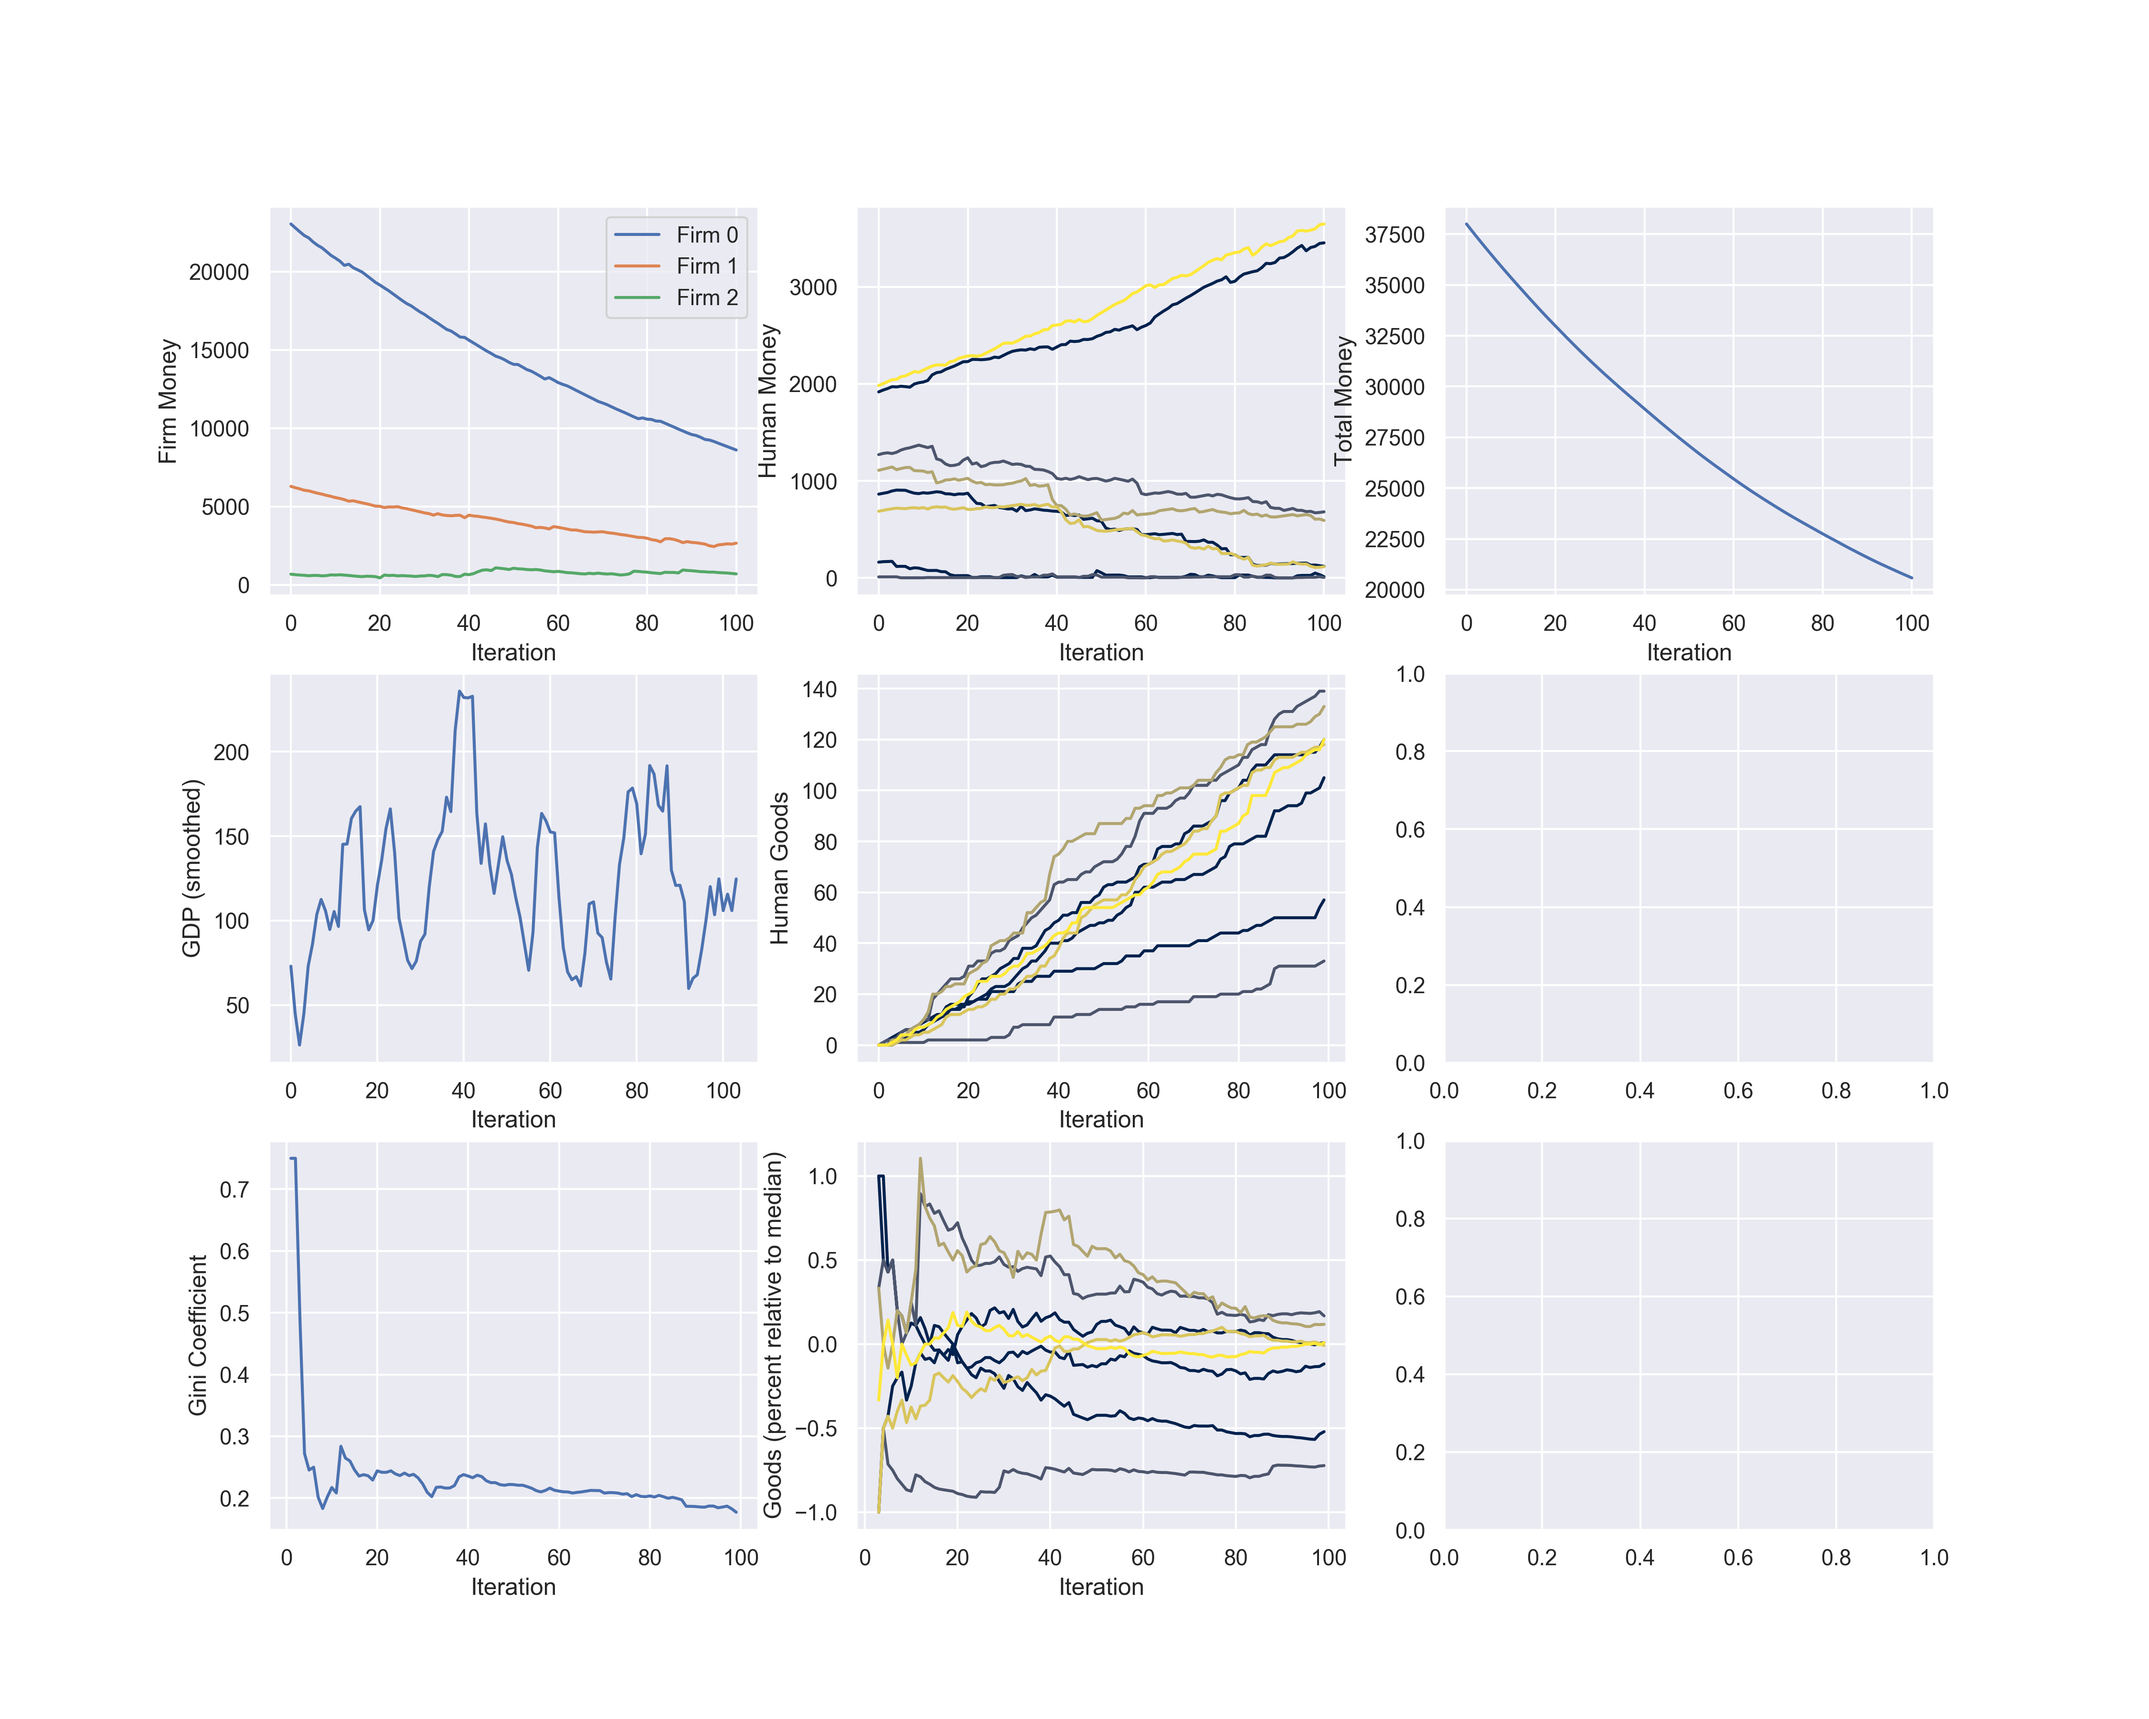
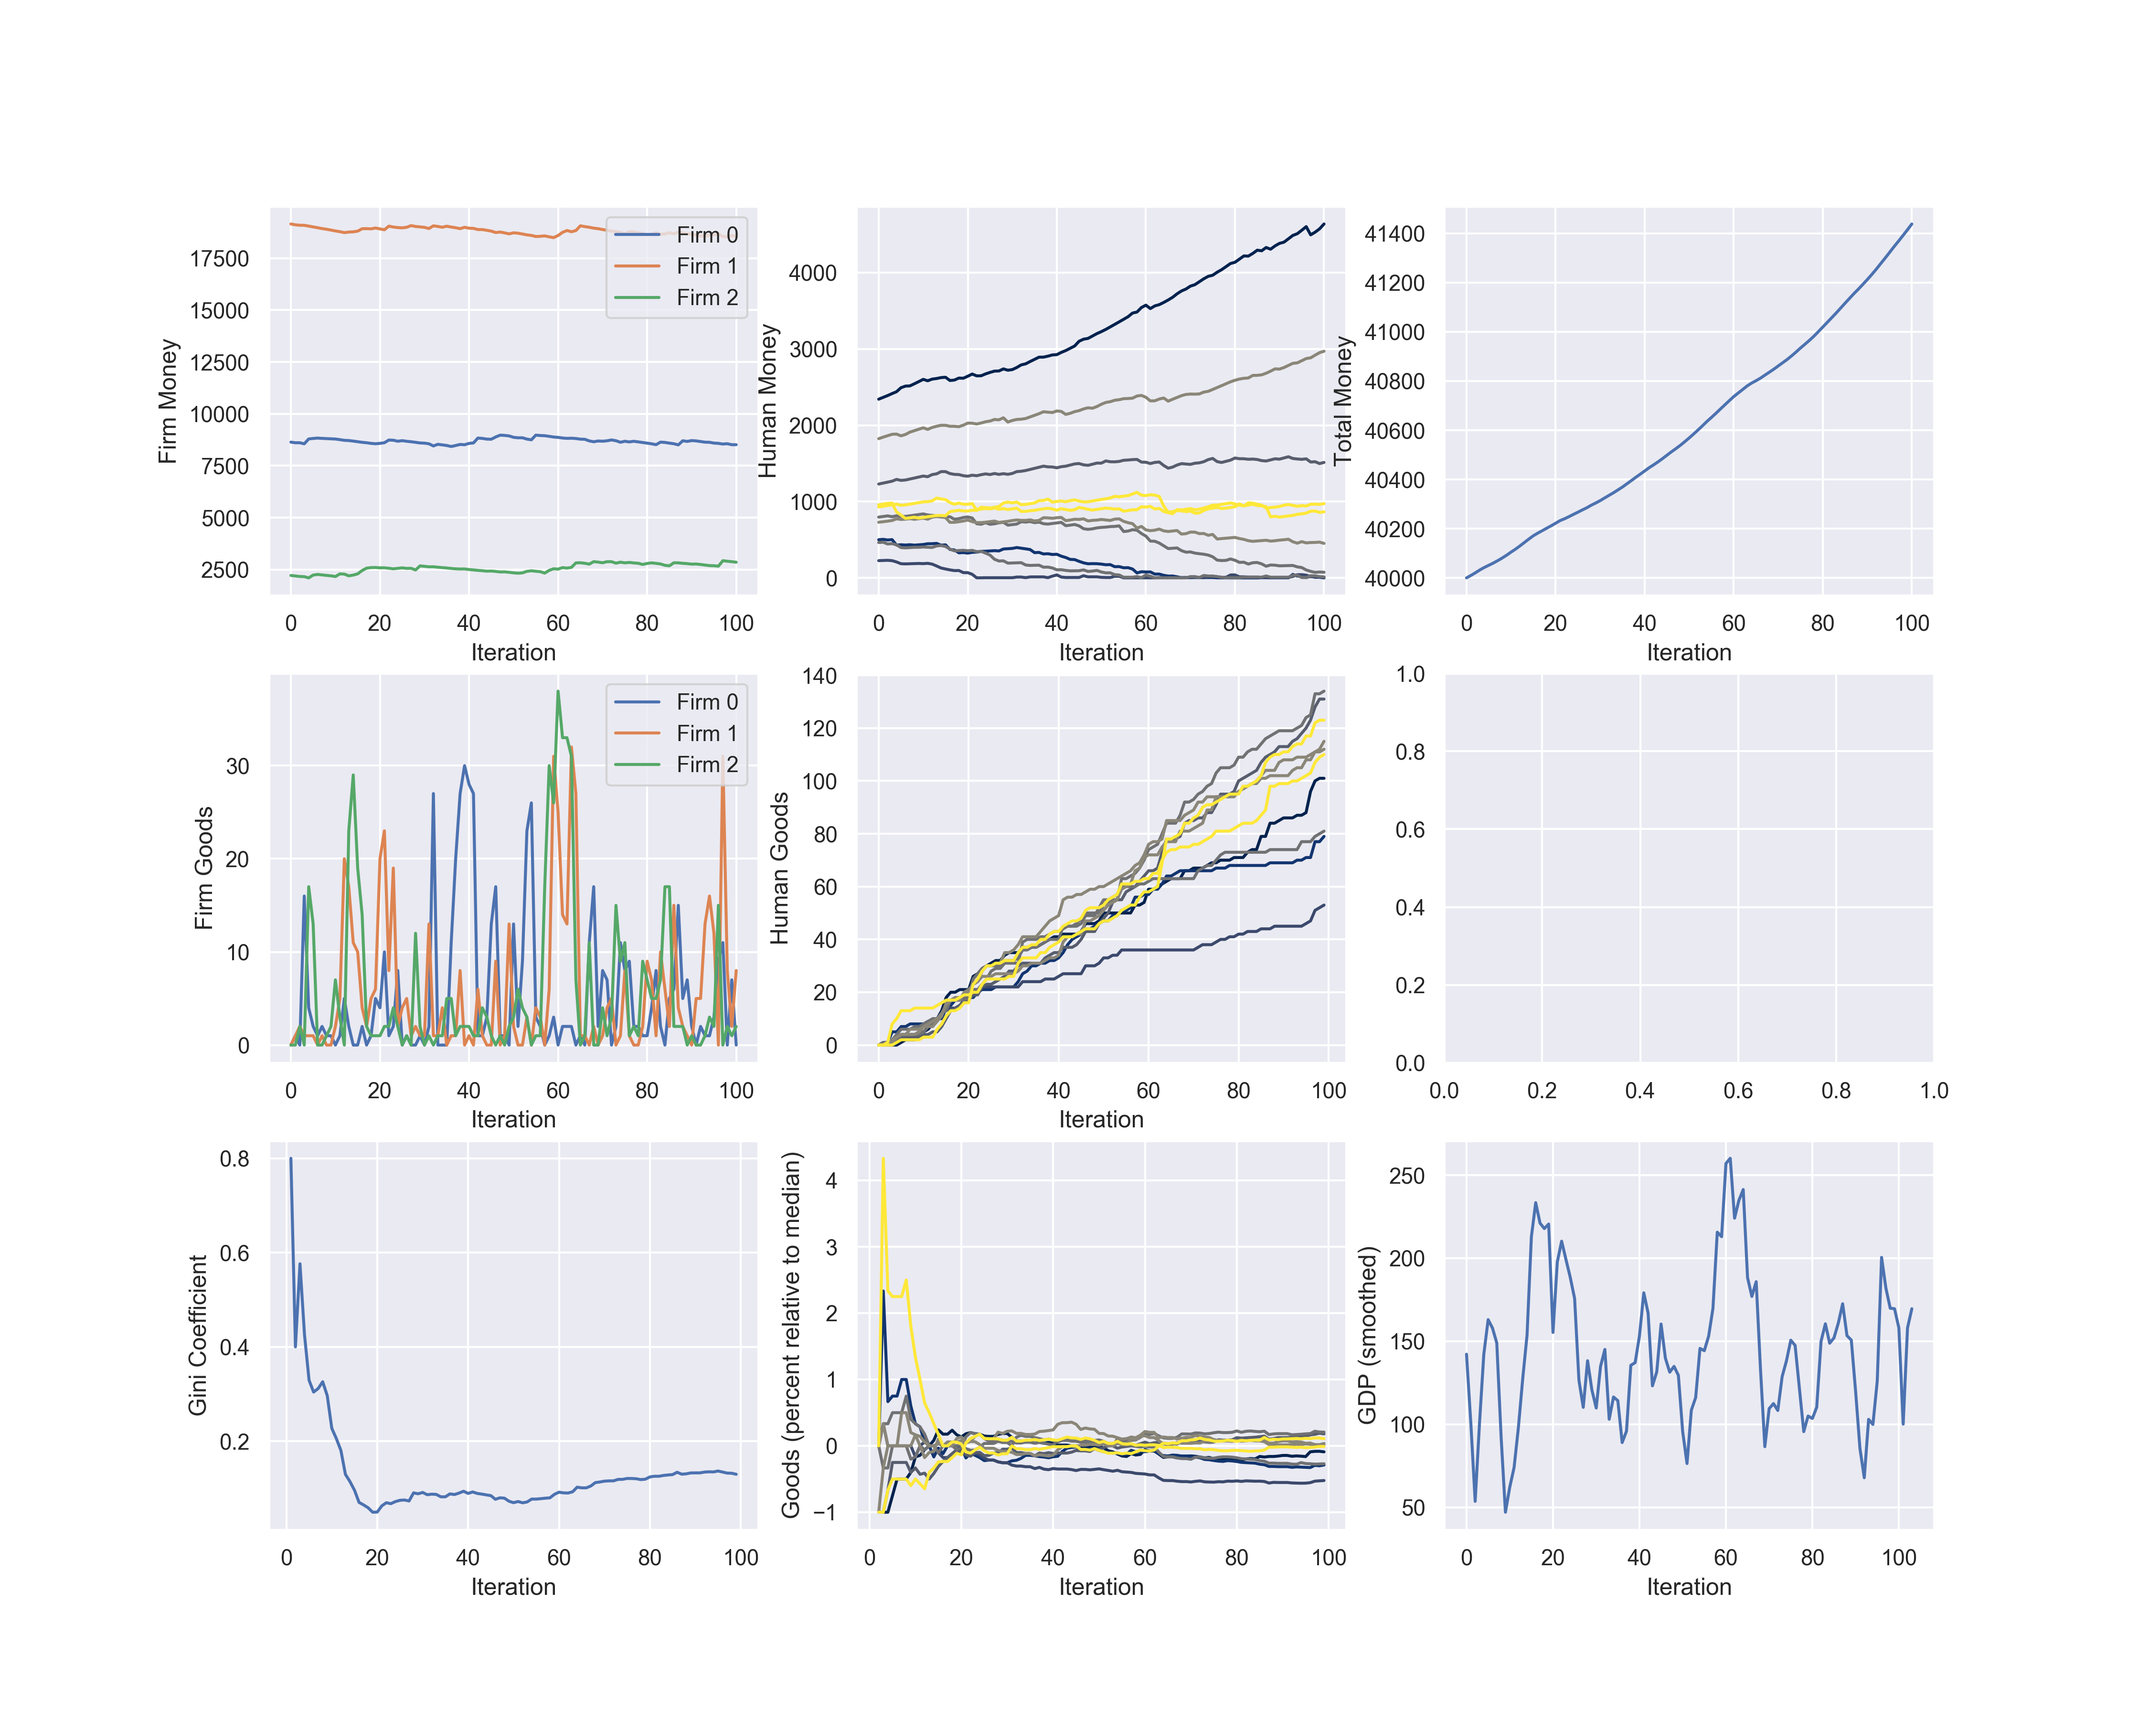
Push to pull Rorys new plots

diff --git a/analytics.py b/analytics.py
@@ -9,12 +9,13 @@ sns.set(style="darkgrid")
 
 def compute_stats(m, firm_action_hist, person_action_hist, 
         firm_money_recv, firm_money_paid, person_goods_recv, person_money_hist,
-        firm_money_hist):
+        firm_money_hist, firm_goods_hist):
         stats = {}
 
         stats['person_skills'] = [p.skill for p in m.people]
 
         stats['firm_money_hists'] = firm_money_hist
+        stats['firm_goods_hists'] = firm_goods_hist
 
         # Frequency of prices offered by firms.
         price_hists = []
@@ -95,10 +96,11 @@ def save_plots_from_iteration(stats, iteration_num, name):
     plot_firm_money_hist(axs[0, 0], stats['firm_money_hists'])
     plot_human_money_hist(axs[0, 1], stats)
     plot_human_goods_hist(axs[1, 1], stats)
-    plot_gdp_smoothed(axs[1, 0], stats)
+    plot_gdp_smoothed(axs[2, 2], stats)
     plot_median_human_goods(axs[2, 1], stats)
     plot_total_money(axs[0, 2], stats)
     plot_gini_coef(axs[2, 0], stats)
+    plot_firm_goods(axs[1, 0], stats)
     plt.savefig('%s-iteration-%s' % (name, iteration_num), dpi=300)
 
 def plot_firm_money_hist(ax, firm_money_hists):
@@ -170,6 +172,13 @@ def plot_total_money(ax, stats):
     ax.set_xlabel("Iteration")
     ax.set_ylabel("Total Money")
 
+def plot_firm_goods(ax, stats):
+    fg = stats['firm_goods_hists']
+    for idx, firm_good_hist in enumerate(fg):
+        ax.plot(np.arange(len(firm_good_hist)), firm_good_hist, label='Firm %s' % idx)
+    ax.set_xlabel("Iteration")
+    ax.set_ylabel("Firm Goods")
+    ax.legend()
 
 def plot_human_wealth(ax, stats):
     #TODO: Rory, combine money + goods ==> wealth 

diff --git a/firm.py b/firm.py
@@ -13,6 +13,7 @@ class FirmAgent(Agent):
         self.money_recv = []
         self.money_hist = [self.money]
         self.money_paid = []
+        self.goods_hist = [0]
 
         state_dim = 2 * NUM_FIRMS + NUM_PEOPLE 
         action_dim = POSSIBLE_UNITS_FIRM.shape[0] * POSSIBLE_PRICES_FIRM.shape[0] * POSSIBLE_RECIP_DEMAND_PARAMS_FIRM.shape[0] 
@@ -61,6 +62,7 @@ class FirmAgent(Agent):
         self.epis_actions = []
         self.money_recv = []
         self.money_paid = []
+        self.goods_hist = [0]
         self.money_hist = [self.init_money]
 
     def end_episode(self):
@@ -89,8 +91,10 @@ class FirmAgent(Agent):
         assert(self.num_goods >= 0 and self.money >= 0)
 
         self.money -= FIRM_OPERATING_COST
+        self.money = max(0, self.money)
         self.money *= FIRM_INTEREST
 
+        self.goods_hist.append(self.num_goods)
         self.money_recv.append(money_recv)
         self.epis_actions.append(action)
         self.money_paid.append(money_paid)

diff --git a/main.py b/main.py
@@ -21,17 +21,17 @@ def reinforce_test():
     m.create_firms(NUM_FIRMS, rltype=RLType.REINFORCE)
     m.create_people(NUM_PEOPLE, rltype=RLType.REINFORCE)
     print("Person Skills: %s" % [round(p.skill, 2) for p in m.people])
-    num_iters = 20
+    num_iters = 100
     avg_GDP = []
     for i in range(num_iters):
-        stats = m.run_episode(100, verbose=True)
-        save_plots_from_iteration(stats, i, 'plots/test5/test')
+        stats = m.run_episode(200, verbose=True)
+        save_plots_from_iteration(stats, i, 'plots/test7/test')
         # avg_GDP.append(np.mean(stats['GDP_over_time']))
 
-    stats = m.run_episode(100)
-    save_plots_from_iteration(stats, i, 'plots/test5/test-final')
+    stats = m.run_episode(200)
+    save_plots_from_iteration(stats, i, 'plots/test7/test-final')
     # print_stats(m, stats)
-    plot_wealth_histories(m, stats)
+    # plot_wealth_histories(m, stats)
 
 def main():
     reinforce_test()

diff --git a/model.py b/model.py
@@ -47,6 +47,7 @@ class Model:
         person_hours_worked = [s.hours_worked for s in self.people]
         person_money_hist = [s.money_hist for s in self.people]
         firm_money_hist = [s.money_hist for s in self.firms]
+        firm_goods_hist = [s.goods_hist for s in self.firms]
         stats = compute_stats(
             self,
             firm_action_hist,
@@ -55,7 +56,8 @@ class Model:
             firm_money_paid,
             person_goods_recv,
             person_money_hist,
-            firm_money_hist
+            firm_money_hist,
+            firm_goods_hist
         )
 
         # End episode and reset agents.

diff --git a/constants.py b/constants.py
@@ -4,8 +4,8 @@ import itertools
 
 # These are constants because I use them to initialize 
 # the policy network's input dimension
-NUM_FIRMS = 3
-NUM_PEOPLE = 8
+NUM_FIRMS = 5
+NUM_PEOPLE = 25
 
 NUM_GOODS_MAX_BUY = 10
 WORK_HOURS_PER_PERSON = 10
@@ -13,7 +13,7 @@ TOTAL_MONEY_FIRMS = 10000 * NUM_FIRMS
 TOTAL_MONEY_PEOPLE = 1000 * NUM_PEOPLE
 DISCOUNT = 0.99
 HUMAN_INTEREST = 1.01
-FIRM_INTEREST = 0.996
+FIRM_INTEREST = 0.999
 FIRM_OPERATING_COST = 20
 
 # Length of firm demand curve.

diff --git a/policy_grad.py b/policy_grad.py
@@ -42,6 +42,7 @@ class ReinforcePolicyGradient(nn.Module):
             self.layer1,
             nn.Tanh(),
             self.layer2,
+            nn.Dropout(0.5)
             # nn.Softmax()
         )
         # return model(x)
